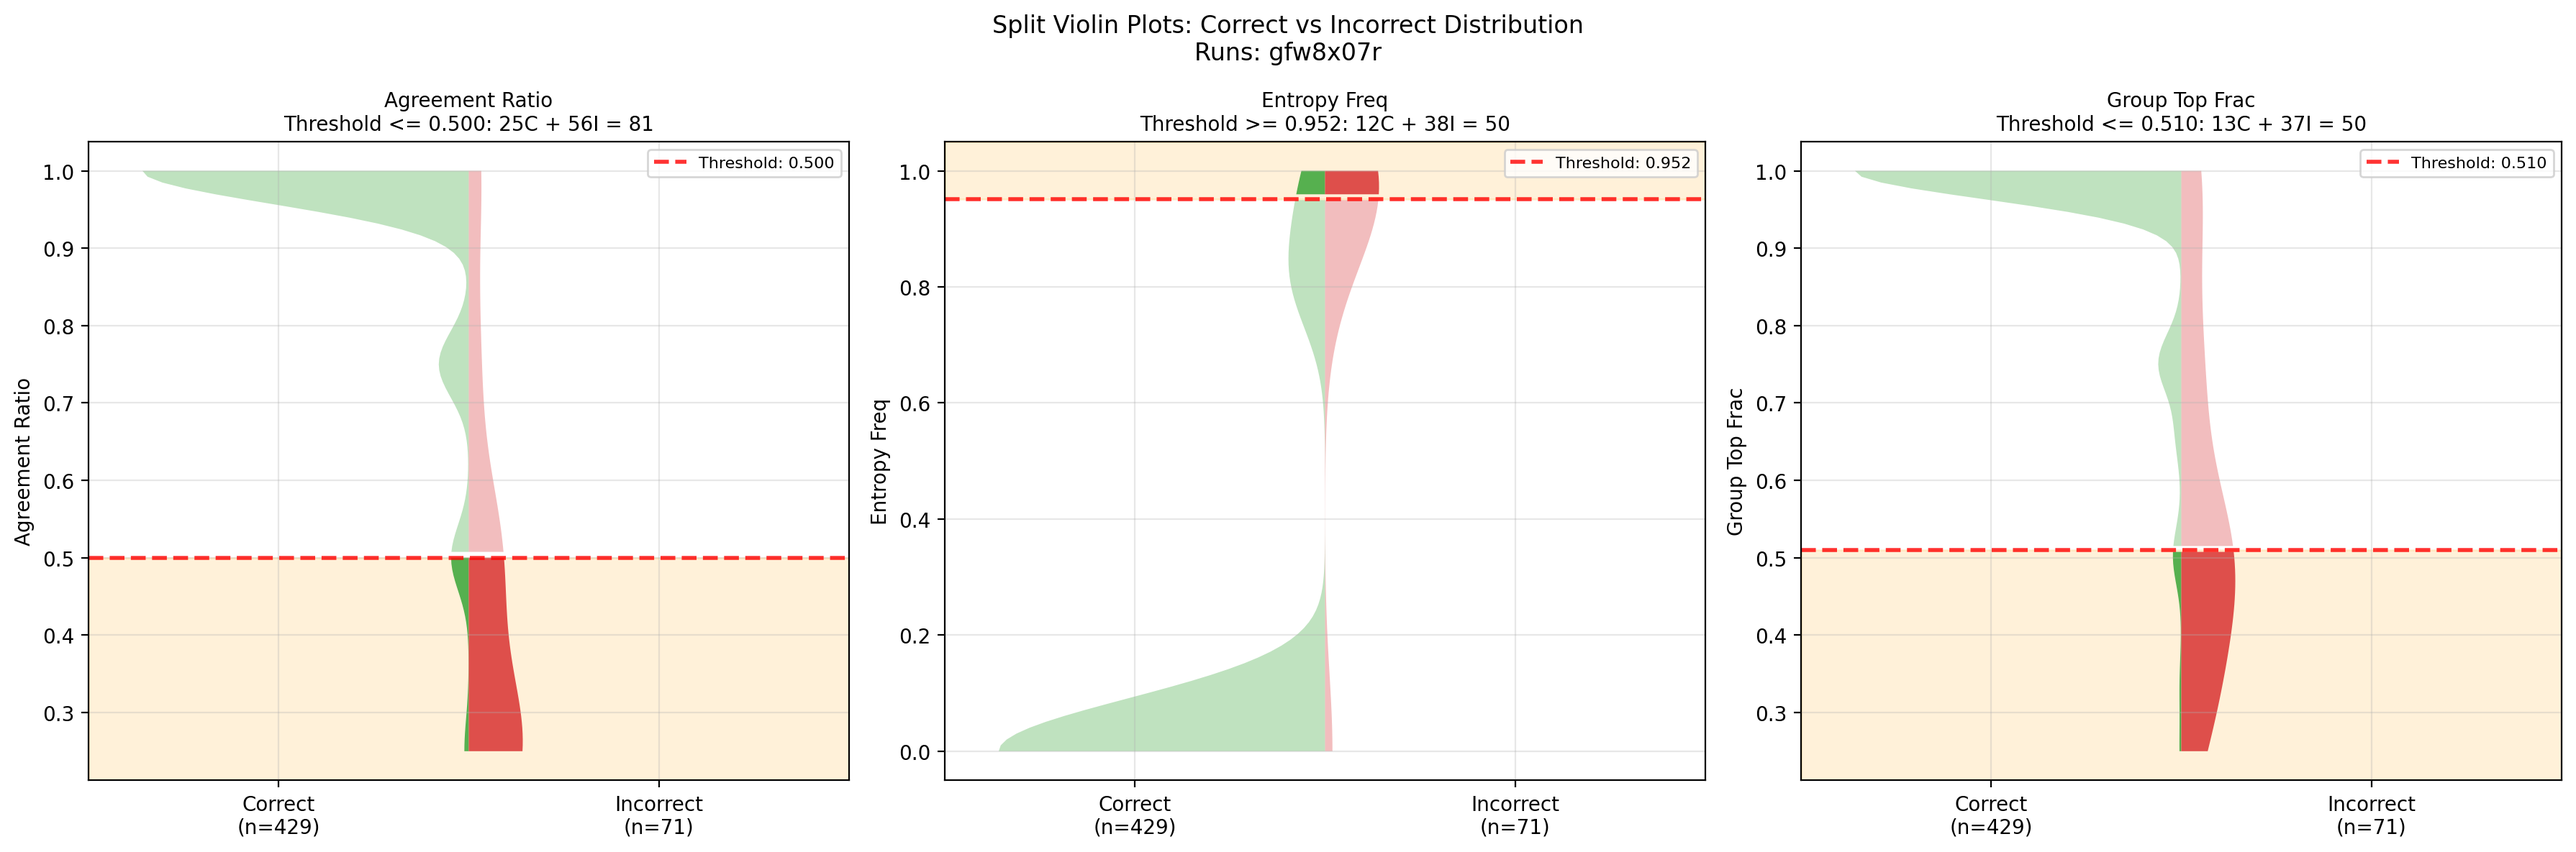
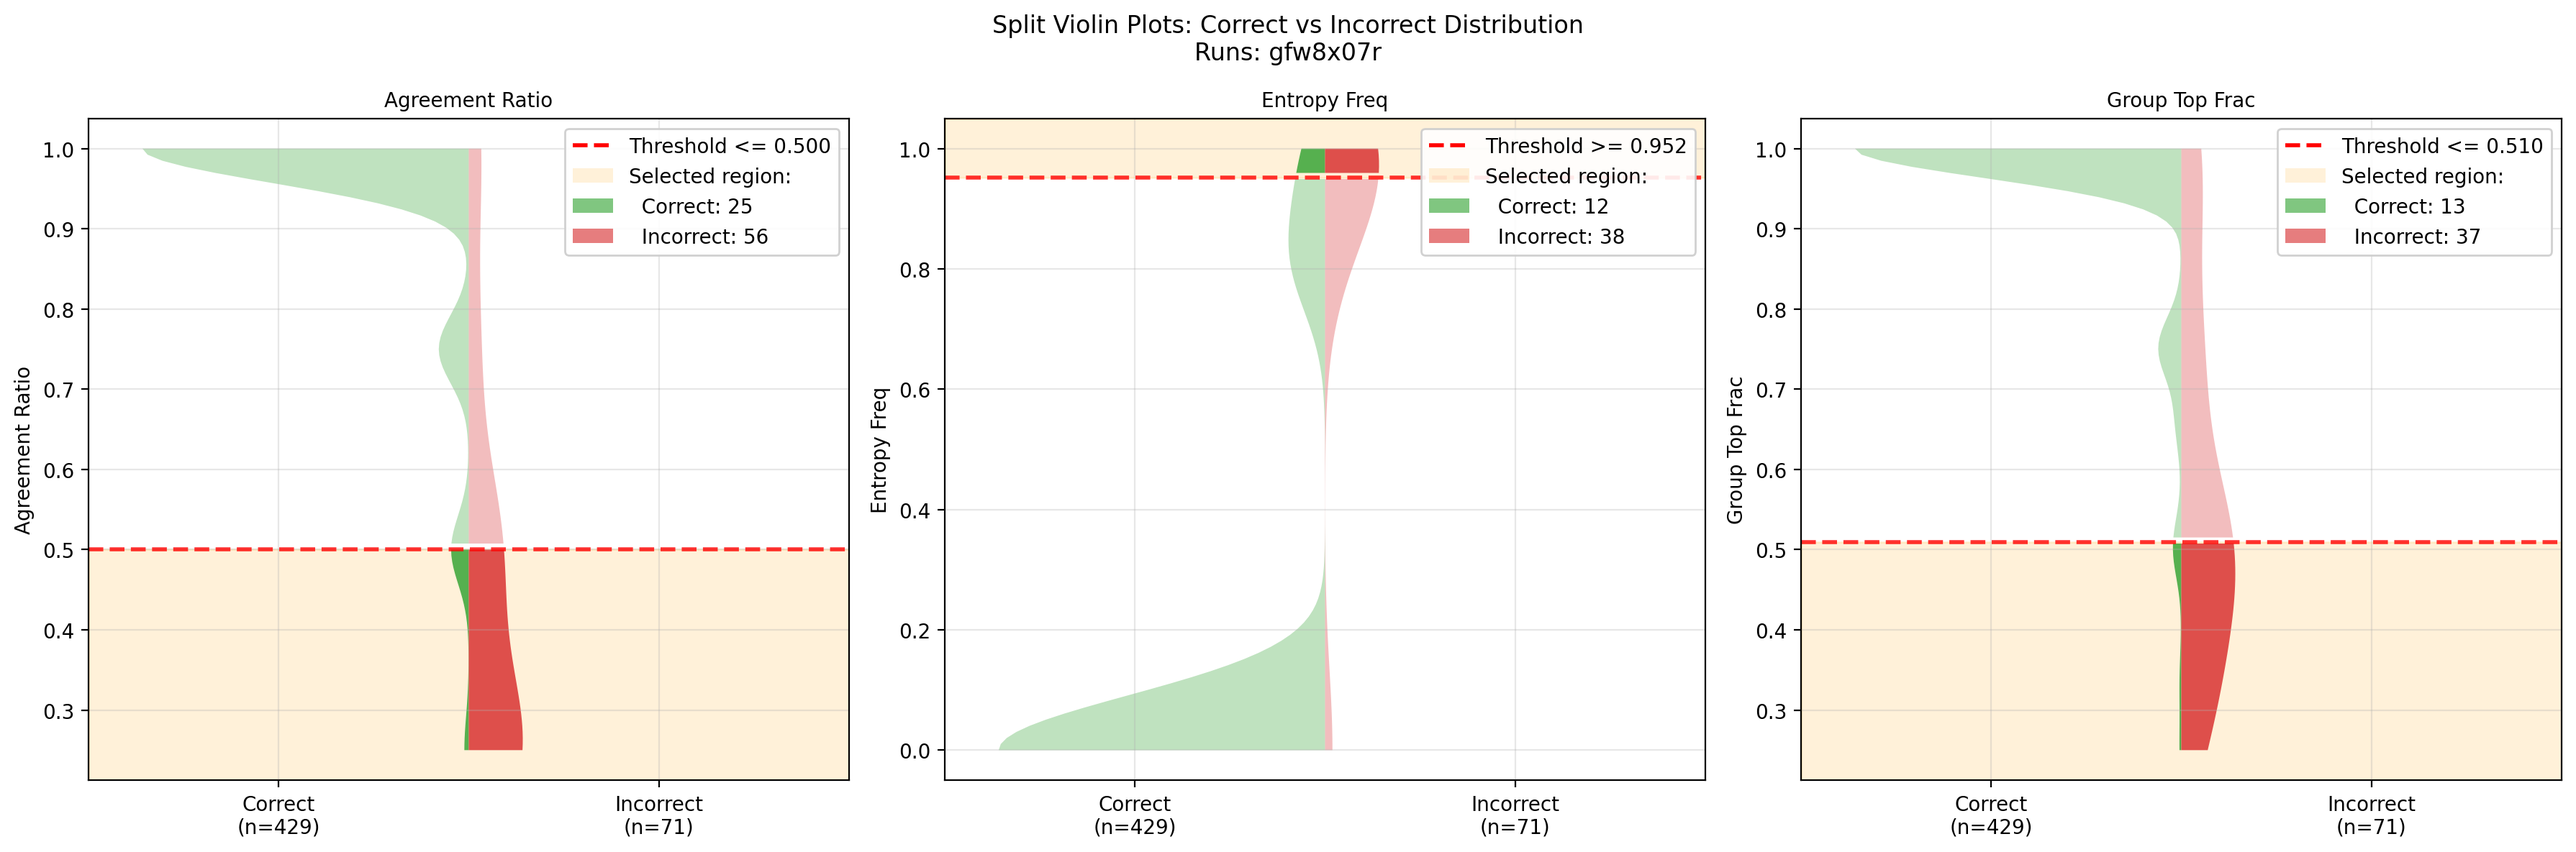
make legend show selected correct / incorrect area

diff --git a/scripts/selection_2.py b/scripts/selection_2.py
@@ -8,6 +8,8 @@ from typing import Dict, List
 
 import matplotlib.pyplot as plt
 import numpy as np
+from matplotlib.lines import Line2D
+from matplotlib.patches import Polygon, Rectangle
 
 from sal.utils.runs import fusion_base_runs_best
 from scripts.inference_visualiser import (
@@ -337,7 +339,6 @@ def create_split_violin_plots(
             )
 
             # Create two separate patches for inside and outside threshold
-            from matplotlib.patches import Polygon
 
             # Split vertices based on threshold
             if metric in ["agreement_ratio", "group_top_frac"]:
@@ -390,7 +391,6 @@ def create_split_violin_plots(
             )
 
             # Create two separate patches for inside and outside threshold
-            from matplotlib.patches import Polygon
 
             # Split vertices based on threshold
             if metric in ["agreement_ratio", "group_top_frac"]:
@@ -470,18 +470,55 @@ def create_split_violin_plots(
         )
         ax.set_ylabel(f"{metric.replace('_', ' ').title()}")
 
-        # Enhanced title with threshold info
+        title = f"{metric.replace('_', ' ').title()}"
+        ax.set_title(title, fontsize=10)
+
+        # Create enhanced legend with selection counts
         direction = "<=" if metric in ["agreement_ratio", "group_top_frac"] else ">="
         analysis = correctness_analysis[metric]
         selected_correct = analysis["correct_selected"]
         selected_incorrect = analysis["incorrect_selected"]
-        total_selected = selected_correct + selected_incorrect
 
-        title = f"{metric.replace('_', ' ').title()}\nThreshold {direction} {threshold_value:.3f}: {selected_correct}C + {selected_incorrect}I = {total_selected}"
-        ax.set_title(title, fontsize=10)
+        # Create custom legend entries with separate correct/incorrect counts
+        legend_elements = [
+            Line2D(
+                [0],
+                [0],
+                color="red",
+                linestyle="--",
+                linewidth=2,
+                label=f"Threshold {direction} {threshold_value:.3f}",
+            ),
+            Rectangle(
+                (0, 0),
+                1,
+                1,
+                facecolor="orange",
+                alpha=0.15,
+                label="Selected region:",
+            ),
+            Rectangle(
+                (0, 0),
+                1,
+                1,
+                facecolor="#2ca02c",
+                alpha=0.6,
+                label=f"  Correct: {selected_correct}",
+            ),
+            Rectangle(
+                (0, 0),
+                1,
+                1,
+                facecolor="#d62728",
+                alpha=0.6,
+                label=f"  Incorrect: {selected_incorrect}",
+            ),
+        ]
 
+        ax.legend(
+            handles=legend_elements, loc="upper right", fontsize=10, framealpha=0.9
+        )
         ax.grid(True, alpha=0.3)
-        ax.legend(loc="upper right", fontsize=8)
 
     plt.suptitle(
         f"Split Violin Plots: Correct vs Incorrect Distribution\nRuns: {', '.join(run_ids)}"
